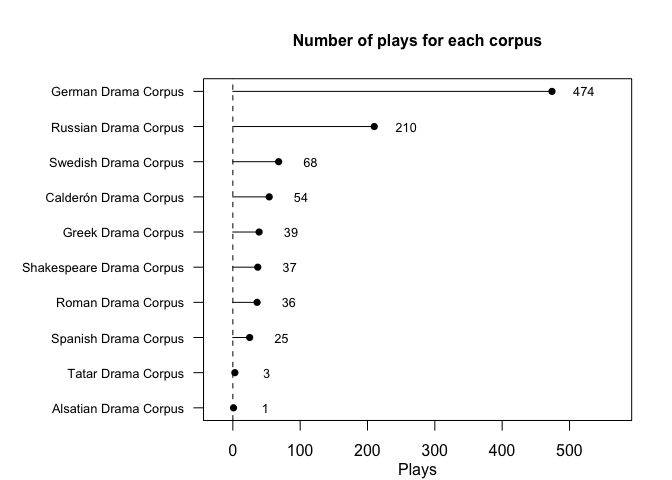
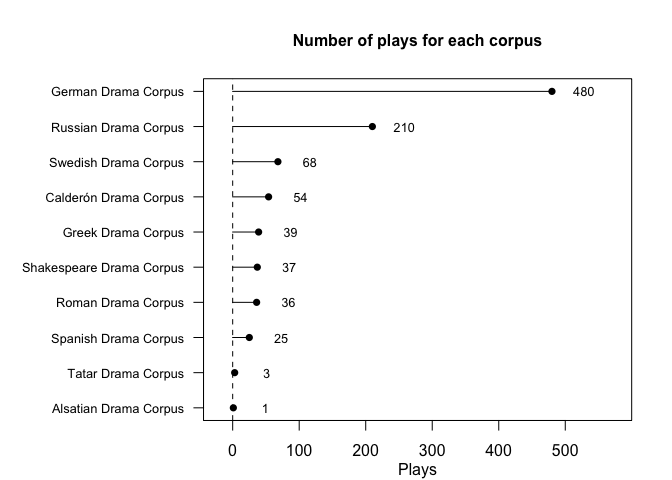
typo fixed

diff --git a/README.md b/README.md
@@ -30,7 +30,7 @@ get_dracor_api_info()## basic example code
 ``` r
 corpora <- get_dracor()
 summary(corpora)
-#> There are 947 plays in 10 corpora    
+#> There are 953 plays in 10 corpora    
 corpora
 #>                                   repository  name
 #> 3    https://github.com/dracor-org/gerdracor   ger
@@ -55,18 +55,18 @@ corpora
 #> 10   https://dracor.org/api/corpora/tat       Tatar Drama Corpus
 #> 1    https://dracor.org/api/corpora/als    Alsatian Drama Corpus
 #>    characters female text male             updated     sp  stage plays
-#> 3       10734   2301  474 7365 2019-12-10 18:23:17 330206 160681   474
+#> 3       11717   2411  480 8204 2020-01-06 10:29:36 339583 165134   480
 #> 6        3636    858  210 2550 2019-12-10 17:33:53 117093  48493   210
 #> 9         769    327   73  382 2019-09-08 00:34:42  35420  17209    68
-#> 2         839    284   54  550 2019-09-28 11:31:40  23966   4758    54
+#> 2         839    284   54  550 2019-12-21 18:10:41  23966   4758    54
 #> 4         437    110   39  275 2019-12-10 16:44:54  15693     11    39
 #> 7        1433      0   37    0 2019-06-23 23:40:19  31066  10450    37
 #> 5         385    104   36  253 2019-12-10 09:46:11  18425    203    36
 #> 8         580    226   25  331 2019-11-05 14:12:47  23600   8393    25
 #> 10         30      9    3   20 2019-12-16 21:57:13    701    433     3
-#> 1          16      8    1    8 2019-12-07 18:27:03   1334    211     1
+#> 1          16      8    1    8 2019-12-21 18:09:28   1334    211     1
 #>    wordcount.text wordcount.sp wordcount.stage
-#> 3         8342891      7966041         1016145
+#> 3         8646715      8252666         1047656
 #> 6         2274917      2151978          208664
 #> 9          737001       690633           96212
 #> 2          568412       544039           27898
@@ -210,7 +210,7 @@ godunov <- get_play_igraph(corpus = "rus",
                            play = "pushkin-boris-godunov")
 ```
 
-This will create an object of S3 class `"play_igraph"` that is heritated from `"igraph"`. It means that you can work with it as an `"igraph"` object:
+This will create an object of S3 class `"play_igraph"` that inherits from `"igraph"`. It means that you can work with it as an `"igraph"` object:
 
 ``` r
 library(igraph)
